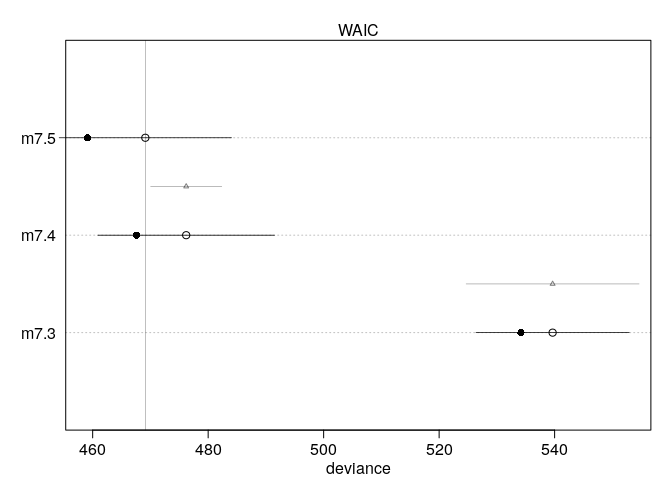
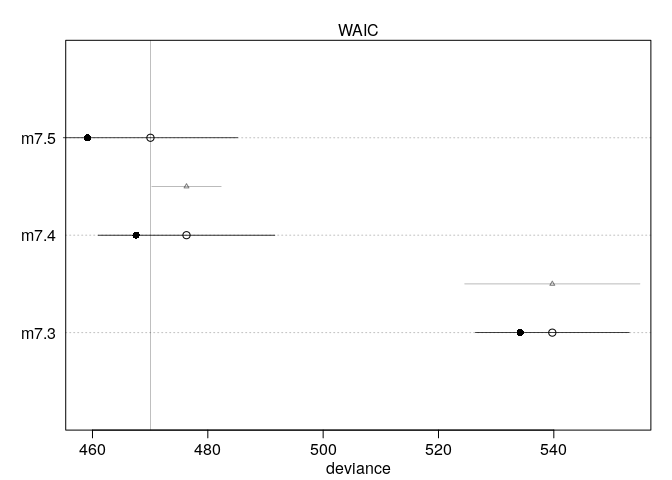
update Chapter 7

diff --git a/Chapter 7/chapter7.md b/Chapter 7/chapter7.md
@@ -1,4 +1,4 @@
-Chapter 7
+Interactions
 ================
 Corrie
 August 14, 2018
@@ -143,8 +143,8 @@ compare( m7.3, m7.4)
 ```
 
     ##       WAIC pWAIC dWAIC weight    SE   dSE
-    ## m7.4 476.4   4.4   0.0      1 15.31    NA
-    ## m7.3 539.7   2.7  63.3      0 13.31 15.16
+    ## m7.4 476.9   4.7   0.0      1 15.35    NA
+    ## m7.3 539.8   2.8  62.9      0 13.35 15.12
 
 ``` r
 plot( compare( m7.3, m7.4 ))
@@ -231,9 +231,9 @@ compare( m7.3, m7.4, m7.5 )
 ```
 
     ##       WAIC pWAIC dWAIC weight    SE   dSE
-    ## m7.5 469.7   5.3   0.0   0.97 15.14    NA
-    ## m7.4 476.6   4.5   7.0   0.03 15.32  6.06
-    ## m7.3 539.8   2.8  70.1   0.00 13.27 15.24
+    ## m7.5 469.5   5.3   0.0   0.97 15.02    NA
+    ## m7.4 476.4   4.4   6.9   0.03 15.34  6.22
+    ## m7.3 539.6   2.7  70.1   0.00 13.29 15.10
 
 ``` r
 plot( compare( m7.3, m7.4, m7.5))
@@ -335,13 +335,13 @@ gamma.notAfrica <- post$bR + post$bAR*0
 mean( gamma.Africa )
 ```
 
-    ## [1] 0.1629094
+    ## [1] 0.1631535
 
 ``` r
 mean( gamma.notAfrica )
 ```
 
-    ## [1] -0.1851133
+    ## [1] -0.1843177
 
 How do the distributions compare?
 
@@ -360,7 +360,7 @@ diff <- gamma.Africa - gamma.notAfrica
 sum( diff < 0 ) / length( diff )
 ```
 
-    ## [1] 0.0028
+    ## [1] 0.0031
 
 So there is a very low probability that the African slope is less than the Non-African slope.
 
@@ -468,7 +468,19 @@ m7.6 <- map(
     sigma ~ dunif( 0, 100)
   ), data=d
 )
+```
 
+    ## Error in map(alist(blooms ~ dnorm(mu, sigma), mu <- a + bW * water + bS * : non-finite finite-difference value [4]
+    ## Start values for parameters may be too far from MAP.
+    ## Try better priors or use explicit start values.
+    ## If you sampled random start values, just trying again may work.
+    ## Start values used in this attempt:
+    ## a = -37.485530747013
+    ## bW = -214.785695572581
+    ## bS = 77.407180048364
+    ## sigma = 19.8480702470988
+
+``` r
 m7.7 <- map(
   alist(
     blooms ~ dnorm( mu, sigma),
@@ -482,16 +494,9 @@ m7.7 <- map(
 )
 ```
 
-    ## Error in map(alist(blooms ~ dnorm(mu, sigma), mu <- a + bW * water + bS * : non-finite finite-difference value [5]
-    ## Start values for parameters may be too far from MAP.
-    ## Try better priors or use explicit start values.
-    ## If you sampled random start values, just trying again may work.
-    ## Start values used in this attempt:
-    ## a = 152.042915133632
-    ## bW = 67.1306128834465
-    ## bS = 118.779603044328
-    ## bWS = -145.910509534873
-    ## sigma = 54.5933612855151
+    ## Caution, model may not have converged.
+
+    ## Code 1: Maximum iterations reached.
 
 Fitting this code very likely produces errors: The flat priors make it hard for the optimizer to find good start values that converge. We can fix this problem different ways:
 
@@ -539,11 +544,11 @@ coeftab(m7.6, m7.7)
 ```
 
     ##       m7.6    m7.7   
-    ## a       53.48  -85.27
-    ## bW      76.38  151.59
-    ## bS     -38.94   35.53
-    ## sigma   57.38   46.17
-    ## bWS        NA  -39.82
+    ## a       53.48   10.79
+    ## bW      76.36  109.93
+    ## bS     -38.93   -4.52
+    ## sigma   57.39   51.70
+    ## bWS        NA  -22.33
     ## nobs       27      27
 
 ``` r
@@ -558,9 +563,9 @@ The estimates are all over the place... The intercept changes from positive to n
 compare( m7.6, m7.7 )
 ```
 
-    ##       WAIC pWAIC dWAIC weight    SE  dSE
-    ## m7.7 297.6   6.9   0.0   0.99 10.52   NA
-    ## m7.6 306.1   5.4   8.5   0.01  9.05 6.38
+    ##       WAIC pWAIC dWAIC weight   SE  dSE
+    ## m7.7 301.4   6.4   0.0   0.93 9.31   NA
+    ## m7.6 306.6   5.7   5.2   0.07 9.24 3.71
 
 Pretty much all weight is on the second model with interaction term, so it seems to be a better model than without interaction term.
 
